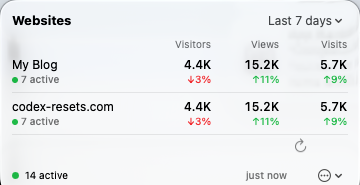
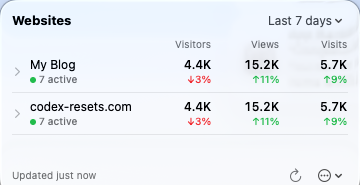
Simplify footer: drop total active, fix refresh button alignment

diff --git a/Sources/UmamiBar/PopoverView.swift b/Sources/UmamiBar/PopoverView.swift
@@ -281,32 +281,30 @@ struct PopoverView: View {
     }
 
     private var footer: some View {
-        HStack(spacing: 6) {
-            if store.settings.isConfigured {
-                Circle()
-                    .fill(.green)
-                    .frame(width: 7, height: 7)
-                Text("\(store.totalActive) active")
+        HStack(alignment: .center, spacing: 10) {
+            if store.settings.isConfigured, let last = store.lastUpdated {
+                Text("Updated \(relativeTime(last))")
                     .font(.caption)
+                    .foregroundStyle(.secondary)
             }
 
             Spacer()
-
-            if store.settings.isConfigured, let last = store.lastUpdated {
-                Text(relativeTime(last))
-                    .font(.caption2)
-                    .foregroundStyle(.secondary)
-            }
 
             if store.settings.isConfigured {
                 Button {
                     Task { await store.refresh() }
                 } label: {
-                    Image(systemName: "arrow.clockwise")
-                        .rotationEffect(.degrees(store.isLoading ? 360 : 0))
-                        .animation(store.isLoading ? .linear(duration: 0.8).repeatForever(autoreverses: false) : .default, value: store.isLoading)
+                    Group {
+                        if store.isLoading {
+                            ProgressView().controlSize(.mini)
+                        } else {
+                            Image(systemName: "arrow.clockwise")
+                        }
+                    }
+                    .frame(width: 16, height: 16)
                 }
-                .buttonStyle(.borderless)
+                .buttonStyle(.plain)
+                .foregroundStyle(.secondary)
                 .disabled(store.isLoading)
             }
 
